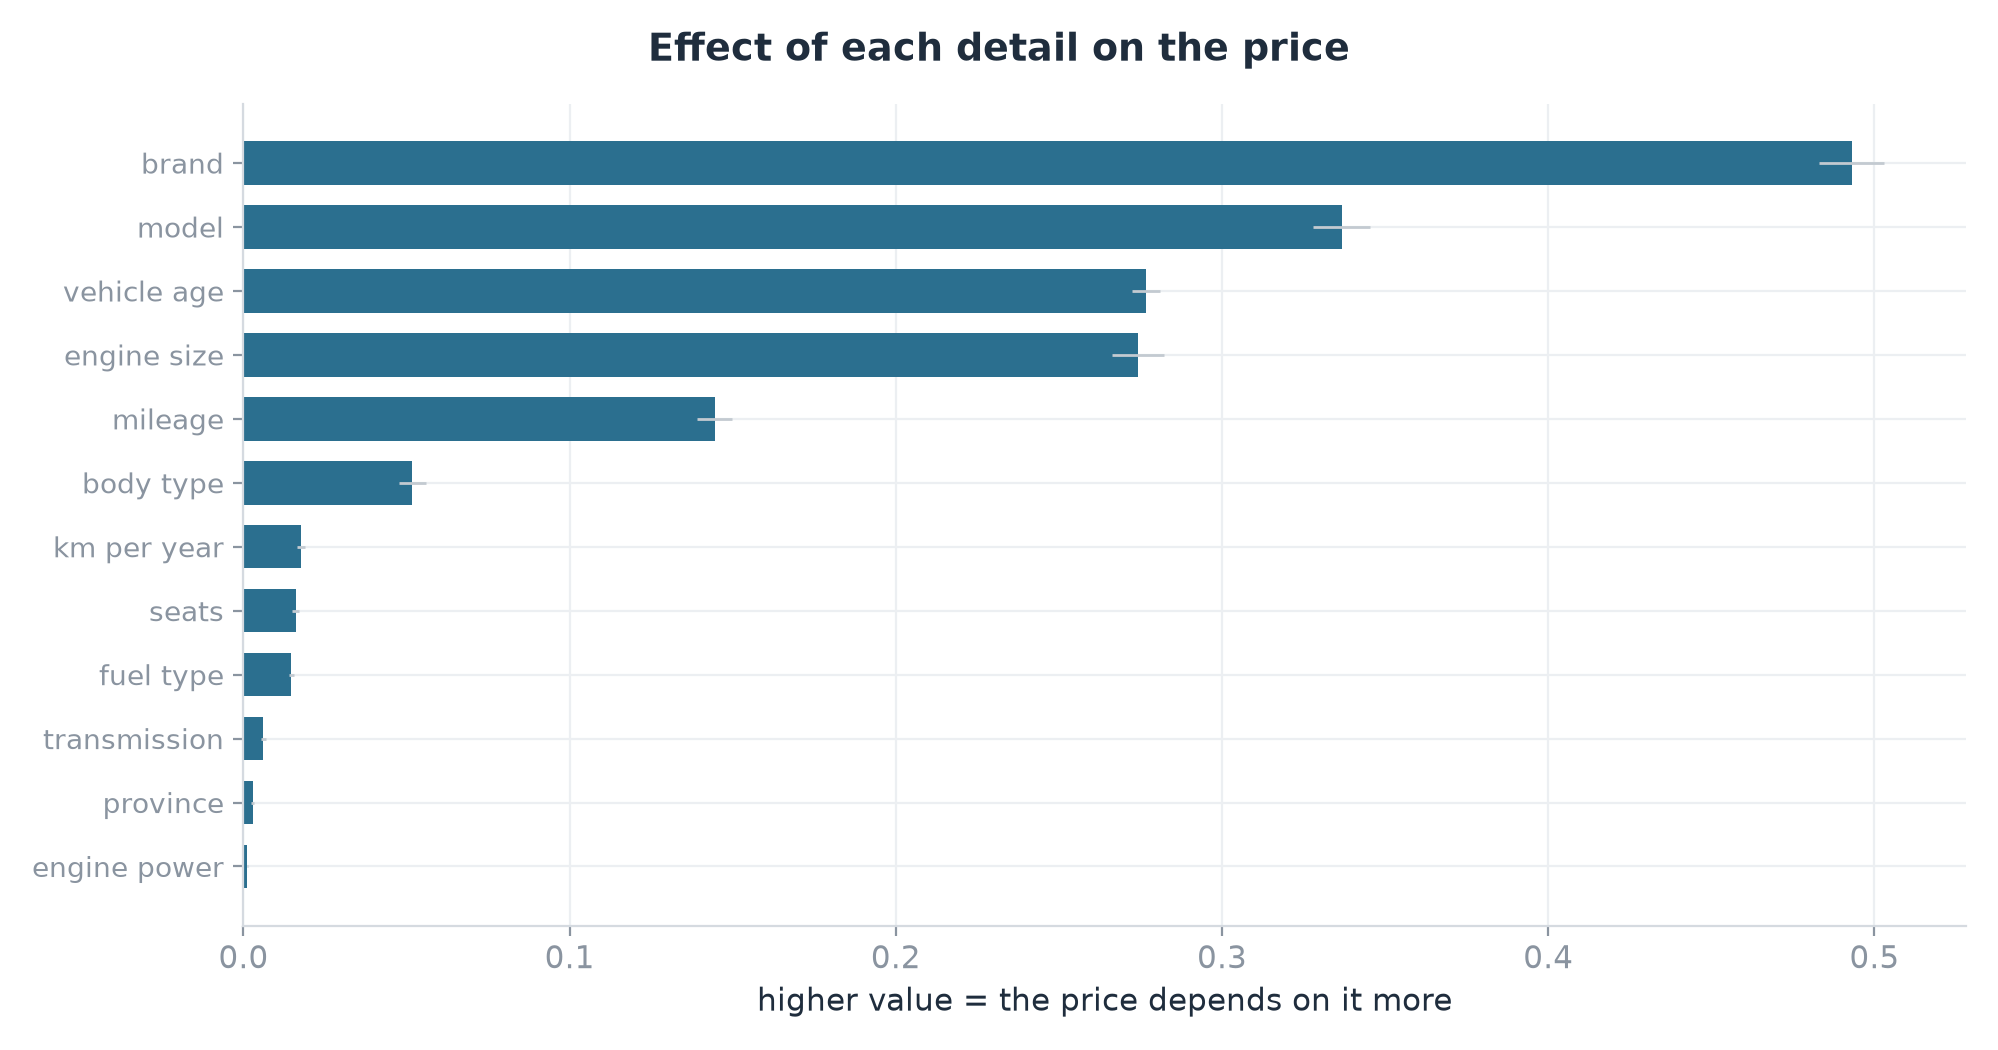
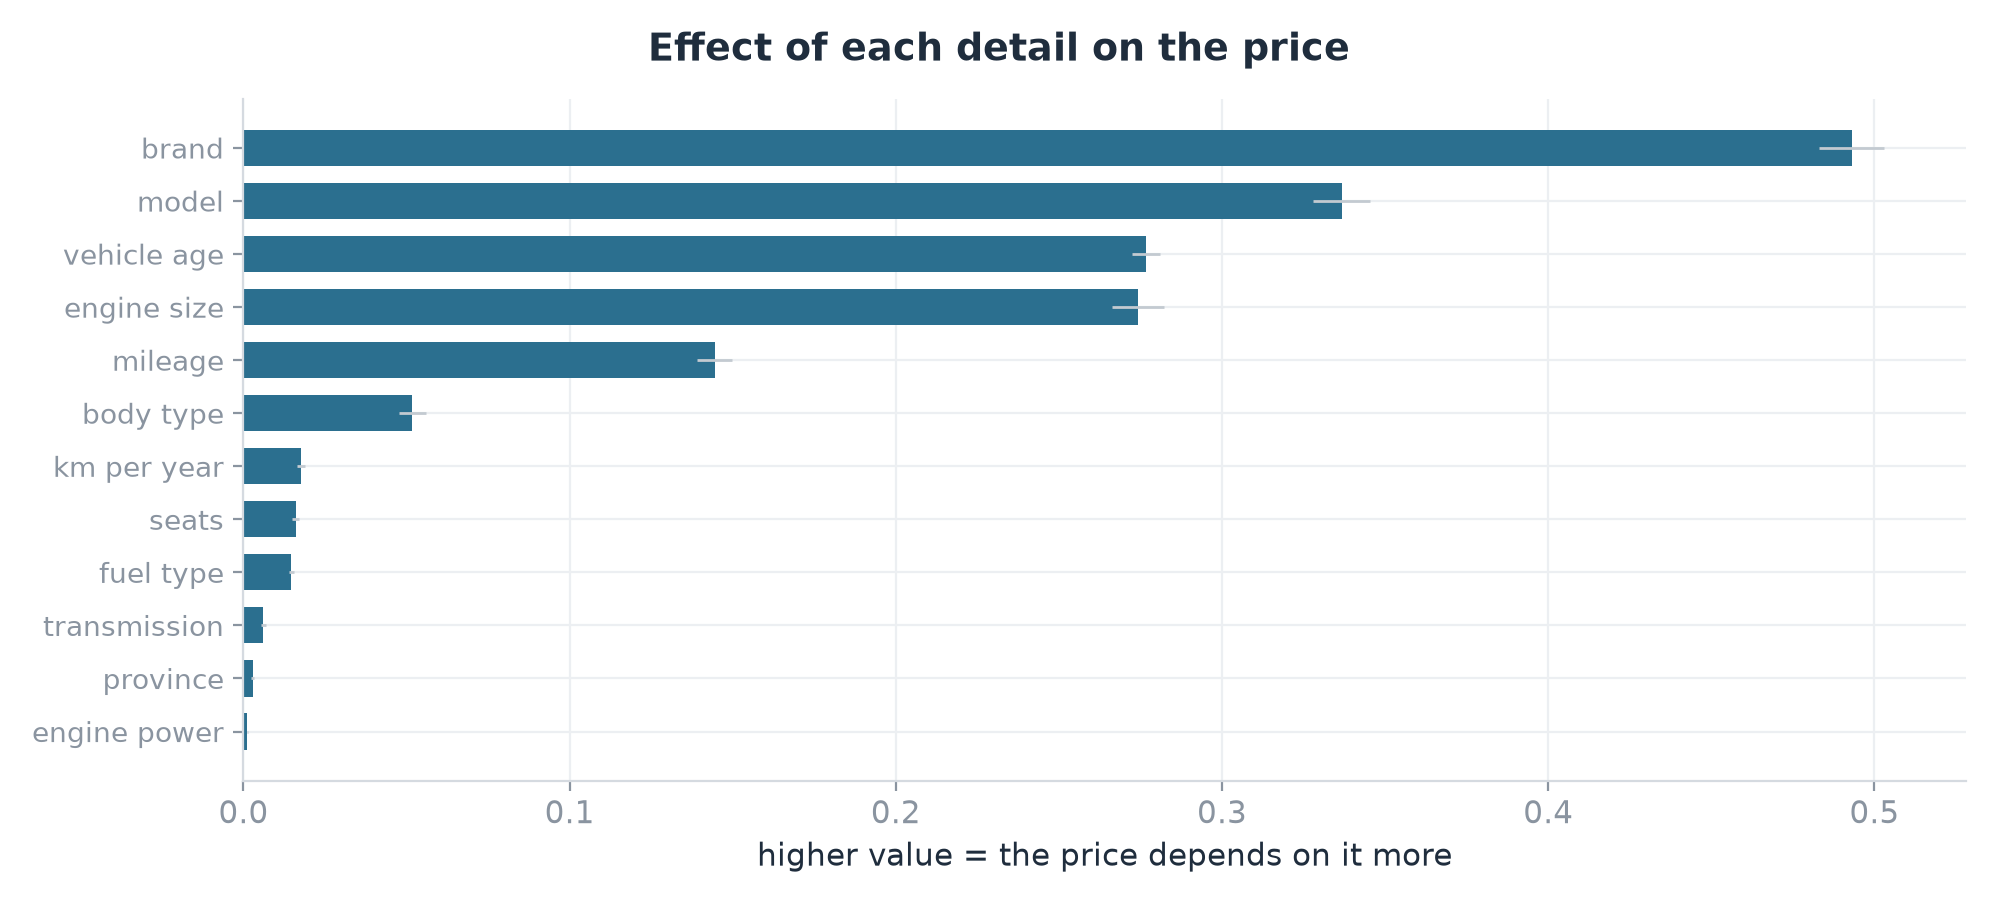
Darken panel labels, shorten three charts, and soften the card labels
Panel labels are black again at 11pt, a step below the 13.5pt figure title, so the hierarchy comes from size alone. The brand, location and feature charts lose some height. The landing card drops the forced uppercase on its stat labels and reuses the case study's opening sentence, so both pages read the same.

diff --git a/index.html b/index.html
@@ -163,10 +163,10 @@
               What the Indonesian used-car market actually charges for
             </h3>
             <p class="project-card-summary">
-              Scraped 12,000 live listings into 10,484 unique cars and priced them with a
-              gradient-boosting model. Once model and year are held constant, most of what
-              buyers think they are paying for &mdash; the brand, the odometer, the city
-              &mdash; largely disappears.
+              I scraped 12,000 live listings from Mobil123 into 10,484 unique cars, then
+              priced them with a gradient-boosting model that holds model and year constant.
+              The question was not what does a used car cost &mdash; it was what does the
+              market actually charge for.
             </p>
             <ul class="project-card-stats project-card-stats--four">
               <li><strong>10,484</strong><span>Cars analysed</span></li>

diff --git a/style.css b/style.css
@@ -1040,9 +1040,8 @@ strong {
 }
 
 .project-card-stats span {
-  font-size: 0.72rem;
-  letter-spacing: 0.07em;
-  text-transform: uppercase;
+  font-size: 0.8rem;
+  line-height: 1.35;
   color: var(--muted-dim);
 }
 

diff --git a/projects/02-used-car-market/eda.py b/projects/02-used-car-market/eda.py
@@ -159,7 +159,7 @@ def chart_brand_retention(series: pd.DataFrame) -> pd.DataFrame:
     loss_low = (1 - summary["q3"]) * 100
     loss_high = (1 - summary["q1"]) * 100
 
-    fig, ax = plt.subplots(figsize=(10, 4.9))
+    fig, ax = plt.subplots(figsize=(10, 4.2))
     y = np.arange(len(summary))
     colors = [ACCENT if i < 3 else COOL for i in range(len(summary))]
     ax.barh(
@@ -210,8 +210,8 @@ def chart_retention_curves(df: pd.DataFrame, series: pd.DataFrame) -> None:
         ax.plot(np.asarray(keep), index, marker="o", ms=3.5, lw=1.7, color=COOL)
         ax.fill_between(np.asarray(keep), 0, index, color=COOL, alpha=0.07)
         ax.axhline(50, color=MUTED, lw=1, ls=":")
-        ax.set_title(f"{row['brand']} {row['model']}", loc="left", fontsize=10.5,
-                     color=MUTED, fontweight="normal")
+        ax.set_title(f"{row['brand']} {row['model']}", loc="left", fontsize=11,
+                     color=INK, fontweight="normal")
         ax.text(0.98, 0.92, f"n={int(row['n'])}", transform=ax.transAxes,
                 ha="right", fontsize=8.5, color=MUTED)
 
@@ -269,7 +269,7 @@ def chart_transmission(df: pd.DataFrame, cells: pd.DataFrame) -> None:
                  fontsize=11, fontweight="bold")
     ax1.set_ylabel("median asking price (Rp million)")
     ax1.set_title(f"A. All listings pooled — +{100*(at/mt-1):.0f}%", loc="left",
-                  pad=10, fontsize=10.5, color=MUTED, fontweight="normal")
+                  pad=10, fontsize=11, color=INK, fontweight="normal")
     ax1.set_ylim(0, at * 1.16)
 
     # B - like-for-like strip plot, one row per age band. One colour on purpose:
@@ -304,7 +304,7 @@ def chart_transmission(df: pd.DataFrame, cells: pd.DataFrame) -> None:
     ax2.set_ylim(-0.55, 2.85)
     ax2.set_xlabel("how much more the automatic version asks (%), same model and year")
     ax2.set_title("B. Comparing the same model and year", loc="left",
-                  pad=10, fontsize=10.5, color=MUTED, fontweight="normal")
+                  pad=10, fontsize=11, color=INK, fontweight="normal")
 
     add_title(fig, "Automatic versus manual")
     save(fig, "03_transmission_premium.png")
@@ -377,7 +377,7 @@ def chart_mileage(df: pd.DataFrame) -> dict:
     ax2.set_ylim(-0.62, 0.78)
     ax2.set_xlabel("price difference between the highest- and lowest-mileage\nthird of the same model and year (%)")
     ax2.set_title("B. Comparing the same model and year", loc="left",
-                  pad=10, fontsize=10.5, color=MUTED, fontweight="normal")
+                  pad=10, fontsize=11, color=INK, fontweight="normal")
     ax2.text(med + 1.2, 0.60, f"typical {abs(med):.1f}% cheaper", ha="left", va="center",
              fontsize=11, color=ACCENT, fontweight="bold")
 
@@ -399,7 +399,7 @@ def chart_structure(df: pd.DataFrame) -> None:
     colors = [ACCENT if y == 2020 else COOL for y in years.index]
     axes[0].bar(years.index, years.values, color=colors, width=0.78)
     axes[0].set_title("Listings by model year", loc="left", pad=10,
-                      fontsize=10.5, color=MUTED)
+                      fontsize=11, color=INK)
     axes[0].set_xlabel("vehicle model year")
     axes[0].set_ylabel("listings")
     axes[0].set_xticks(list(range(2008, 2027, 2)))
@@ -413,7 +413,7 @@ def chart_structure(df: pd.DataFrame) -> None:
     axes[1].invert_yaxis()
     axes[1].set_xlabel("% of listings")
     axes[1].set_title("Body type", loc="left", pad=10,
-                      fontsize=10.5, color=MUTED)
+                      fontsize=11, color=INK)
 
     origin = df["origin"].value_counts()
     axes[2].barh(np.arange(len(origin)), 100 * origin.values / len(df),
@@ -423,7 +423,7 @@ def chart_structure(df: pd.DataFrame) -> None:
     axes[2].invert_yaxis()
     axes[2].set_xlabel("% of listings")
     axes[2].set_title("Brand origin", loc="left", pad=10,
-                      fontsize=10.5, color=MUTED)
+                      fontsize=11, color=INK)
 
     add_title(fig, "Marketplace composition")
     save(fig, "05_market_structure.png")

diff --git a/projects/02-used-car-market/model.py b/projects/02-used-car-market/model.py
@@ -379,7 +379,7 @@ def main() -> None:
     gap_span = loc["median"].max() - loc["median"].min()
 
     # ---- chart: location and brand premium ----
-    fig, (axa, axb) = plt.subplots(1, 2, figsize=(12.5, 5.8),
+    fig, (axa, axb) = plt.subplots(1, 2, figsize=(12.5, 5.0),
                                    gridspec_kw={"width_ratios": [1, 1]})
     axa.barh(np.arange(len(loc)), loc["median"], color=COOL, height=0.66)
     axa.set_yticks(np.arange(len(loc)))
@@ -391,7 +391,7 @@ def main() -> None:
     axa.set_xlim(-2, 2)
     axa.set_xlabel("price difference for the same car sold elsewhere (%)")
     axa.set_title("A. Where the car is sold", loc="left", pad=10,
-                  fontsize=10.5, color=MUTED, fontweight="normal")
+                  fontsize=11, color=INK, fontweight="normal")
 
     axb.barh(np.arange(len(brand_gap)), brand_gap["median"],
              color=[ACCENT if v > 0 else COOL for v in brand_gap["median"]],
@@ -402,7 +402,7 @@ def main() -> None:
     axb.axvline(0, color=INK, lw=1)
     axb.set_xlabel("extra price the badge adds, beyond the specifications (%)")
     axb.set_title("B. Which brand carries a premium", loc="left", pad=10,
-                  fontsize=10.5, color=MUTED, fontweight="normal")
+                  fontsize=11, color=INK, fontweight="normal")
 
     add_title(fig, "Price by province and the brand premium")
     fig.savefig(IMAGES / "07_location_and_brand.png", bbox_inches="tight",
@@ -442,7 +442,7 @@ def main() -> None:
         "flag_service_record": "text: service history",
         "flag_nego": "text: negotiable",
     }
-    fig, ax = plt.subplots(figsize=(10, 4.9))
+    fig, ax = plt.subplots(figsize=(10, 4.2))
     top = order[:12][::-1]
     ax.barh(np.arange(len(top)), imp.importances_mean[top], color=COOL, height=0.68,
             xerr=imp.importances_std[top], error_kw={"ecolor": "#c3cad1", "lw": 1})
